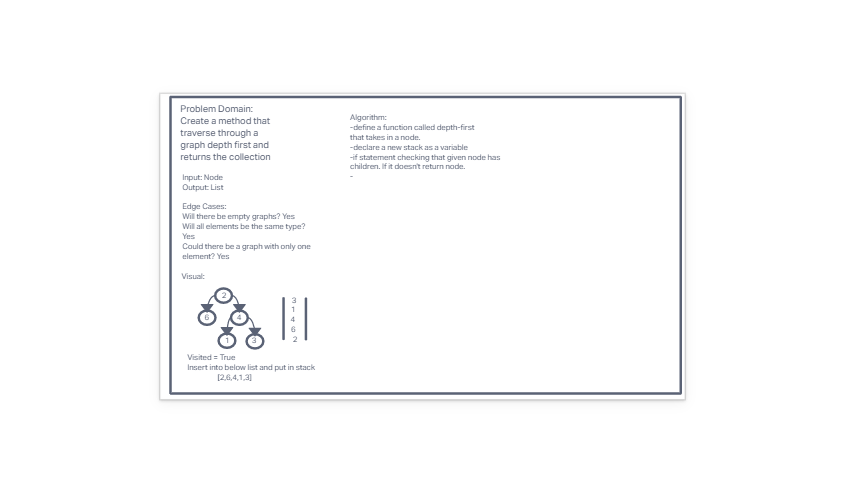
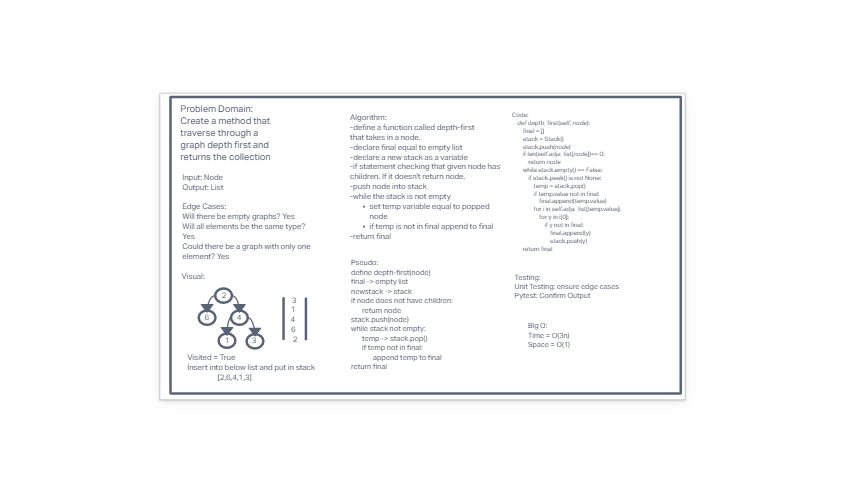
added to code and wrote tests

diff --git a/python/tests/test_graph.py b/python/tests/test_graph.py
@@ -66,14 +66,28 @@ def test_breadth():
     graph.add_edge('c','a',5)
     assert graph.breadth_first('a') == ['a','b','c']
 
-def test_depth():
+def test_depth_one():
     graph = Graph()
-    node = graph.add_node('a')
+    graph.add_node('a')
+    assert graph.depth_first('a') == 'a'
+
+def test_depth_not_connected():
+    graph = Graph()
+    graph.add_node('a')
+    graph.add_node('c')
+    graph.add_node('b')
+    graph.add_edge('b','a',4)
+    assert graph.depth_first('c') == 'c'
+
+
+def test_depth_full():
+    graph = Graph()
+    graph.add_node('a')
     graph.add_node('b')
     graph.add_node('c')
     graph.add_node('d')
     graph.add_edge('b','a',4)
     graph.add_edge('c','a',5)
-    graph.add_edge('d','c',5)
-    assert graph.depth_first(node.value) == 'a'
+    graph.add_edge('c','d',5)
+    assert graph.depth_first('a') == ['a', 'b', 'c', 'd']
 

diff --git a/python/code_challenges/graphs/graph.py b/python/code_challenges/graphs/graph.py
@@ -82,13 +82,18 @@ class Graph:
         final = []
         stack = Stack()
         stack.push(node)
+        if len(self.adja_list[node])== 0:
+            return node
         while stack.empty() == False:
-            temp = stack.peek()
-            final.append(temp)
-            stack.pop()
-            for x in self.adja_list[temp]:
-                for y in x[0]: 
-                    final.append(y)
+            if stack.peek() is not None:
+                temp = stack.pop()
+                if temp.value not in final:
+                    final.append(temp.value)
+                for i in self.adja_list[temp.value]:
+                    for y in i[0]:
+                        if y not in final:
+                            final.append(y)
+                            stack.push(y)
         return final
 
 
